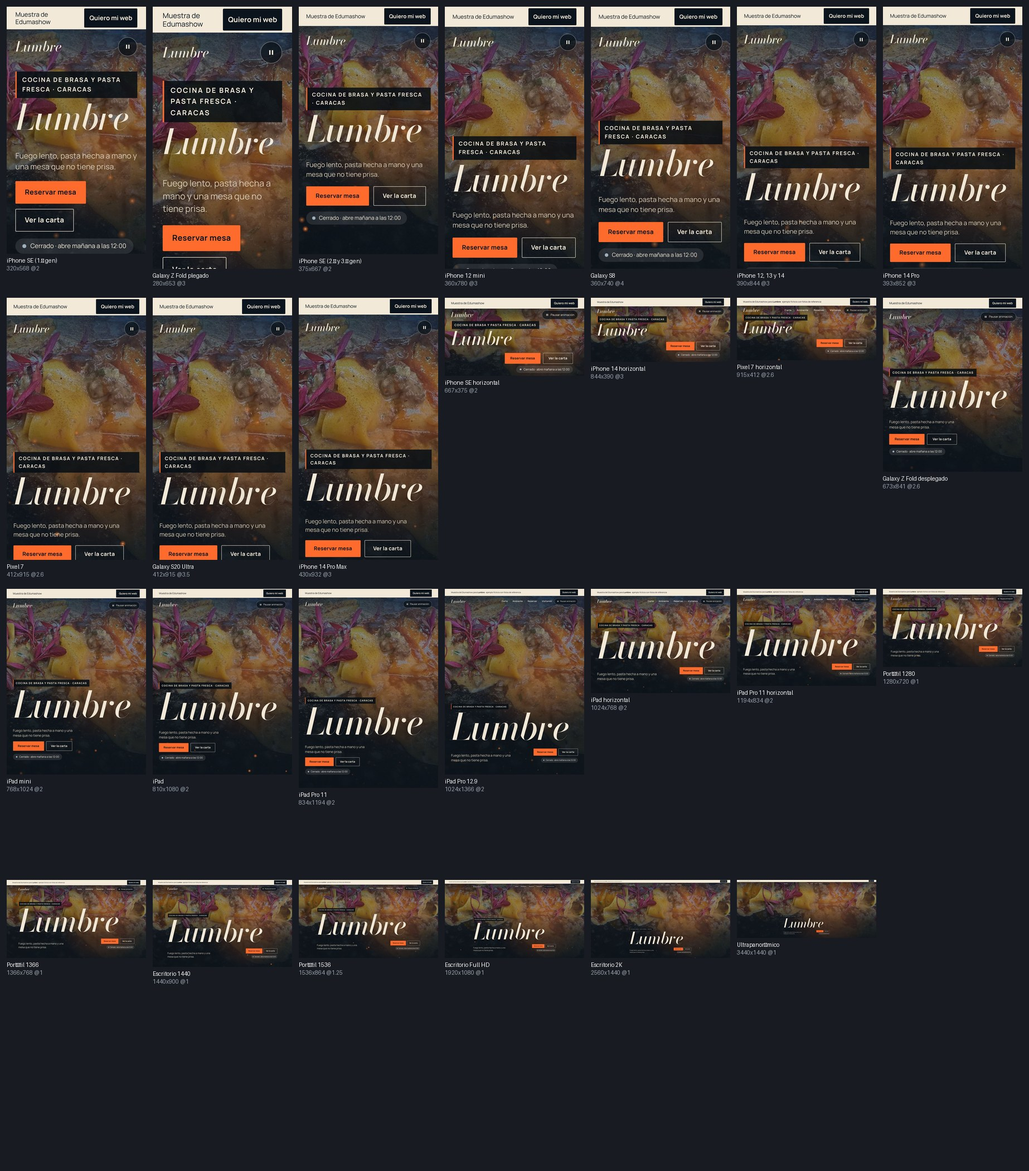
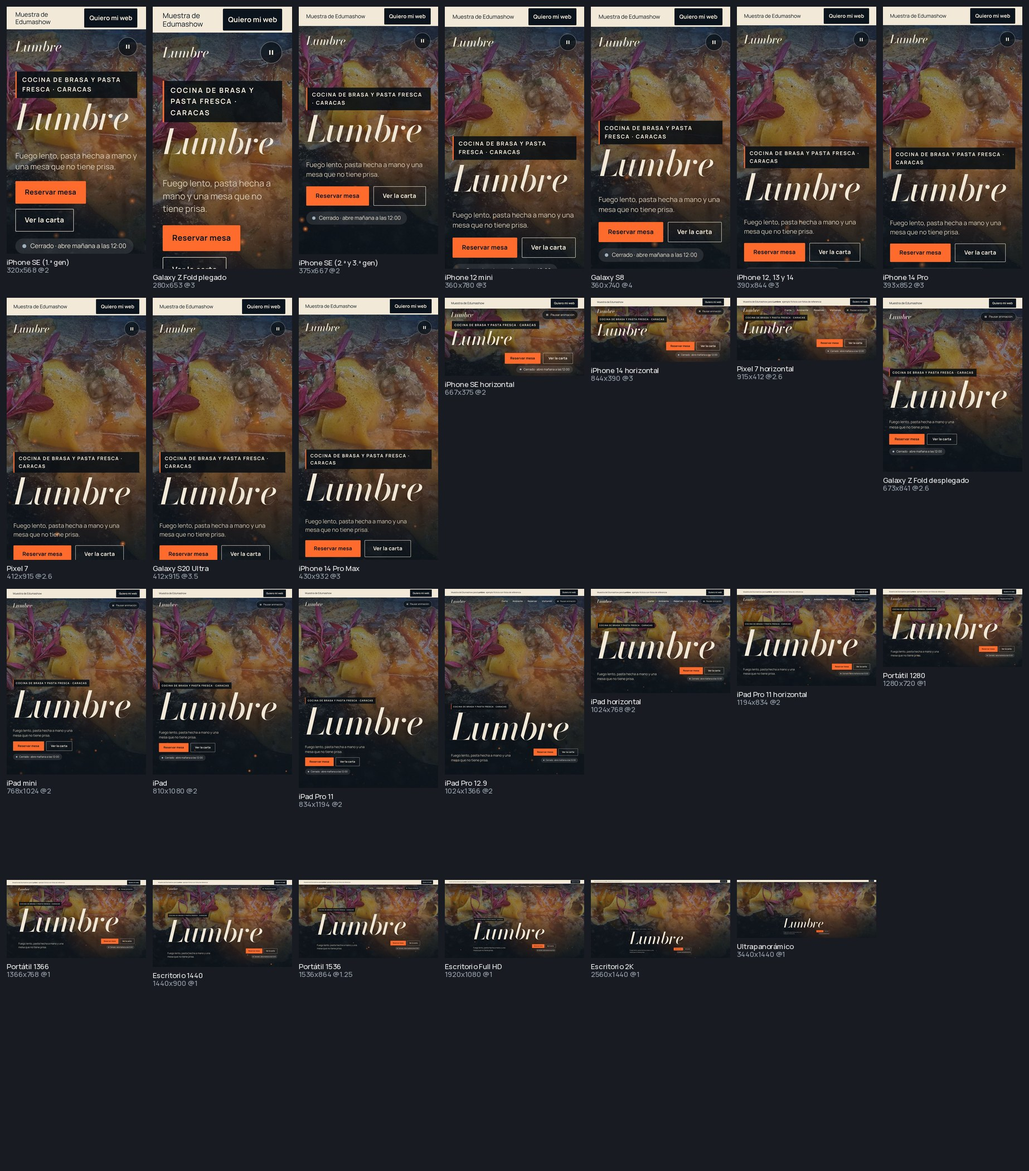
Hoja de dispositivos con las etiquetas bien escritas
La tipografia por defecto de Pillow no tenia las tildes ni la o ordinal y salian cuadrados
en los nombres de los dispositivos. La hoja usa ahora Manrope, que ya esta en el repositorio.

Claude-Session: https://claude.ai/code/session_01YAW5LdcDG6pTkU5KTYuYz2

diff --git a/edumashow/gate/verificar.py b/edumashow/gate/verificar.py
@@ -92,7 +92,10 @@ def juzgar_contraste(D, dir_informe):
 
 def hoja_contacto(dir_informe, dispositivos, salida):
     celdas = []
-    fuente = ImageFont.load_default()
+    try:   # tipografia libre del repositorio: la de Pillow por defecto no tiene tildes ni la o ordinal
+        fuente = ImageFont.truetype(os.path.join(RAIZ, "fuentes", "Manrope-Medium.ttf"), 13)
+    except OSError:
+        fuente = ImageFont.load_default()
     ancho = 250
     for d in dispositivos:
         ruta = os.path.join(dir_informe, "capturas", d["id"] + ".jpg")
